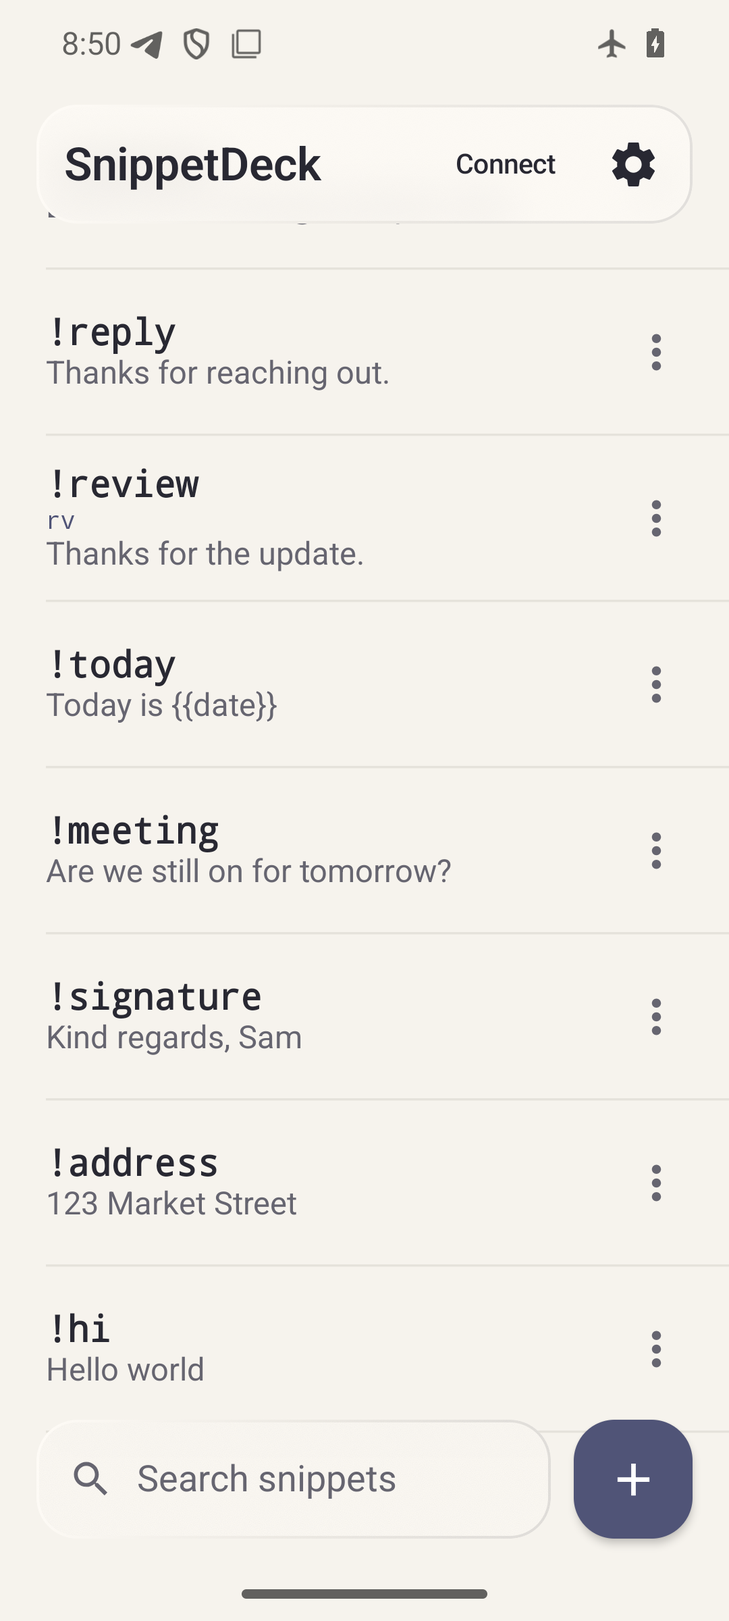
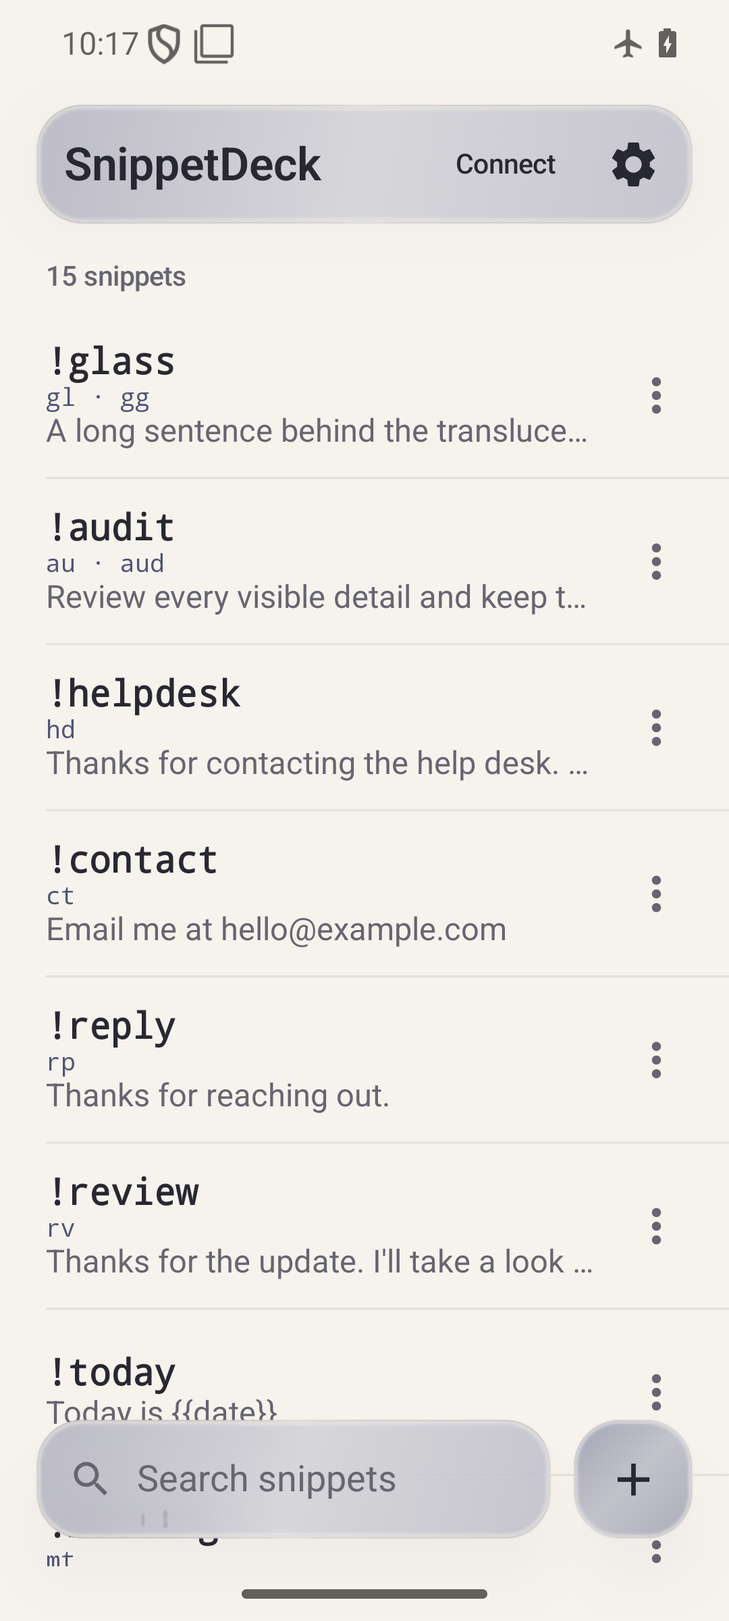
Render refracting glass blocks on Android

diff --git a/app/src/main/java/com/rrajath/expander/ui/screens/SnippetListScreen.kt b/app/src/main/java/com/rrajath/expander/ui/screens/SnippetListScreen.kt
@@ -4,10 +4,12 @@ import android.content.Intent
 import android.os.PowerManager
 import android.provider.Settings
 import androidx.compose.foundation.background
+import androidx.compose.foundation.clickable
 import androidx.compose.foundation.combinedClickable
 import androidx.compose.foundation.layout.*
 import androidx.compose.foundation.lazy.LazyColumn
 import androidx.compose.foundation.lazy.items
+import androidx.compose.foundation.shape.RoundedCornerShape
 import androidx.compose.material.icons.Icons
 import androidx.compose.material.icons.filled.Add
 import androidx.compose.material.icons.filled.MoreVert
@@ -17,6 +19,7 @@ import androidx.compose.runtime.*
 import androidx.compose.ui.Alignment
 import androidx.compose.ui.Modifier
 import androidx.compose.ui.platform.LocalContext
+import androidx.compose.ui.semantics.Role
 import androidx.compose.ui.text.font.FontFamily
 import androidx.compose.ui.text.style.TextOverflow
 import androidx.compose.ui.unit.dp
@@ -26,11 +29,11 @@ import androidx.lifecycle.compose.LocalLifecycleOwner
 import com.rrajath.expander.data.Snippet
 import com.rrajath.expander.service.TextExpansionService
 import com.rrajath.expander.ui.components.SearchBar
-import com.rrajath.expander.ui.components.glassControl
+import com.rrajath.expander.ui.components.GlassBlock
 import com.rrajath.expander.sync.SyncUiState
 import com.rrajath.expander.util.ThemePreferences
-import dev.chrisbanes.haze.HazeState
-import dev.chrisbanes.haze.haze
+import dev.chrisbanes.haze.hazeSource
+import dev.chrisbanes.haze.rememberHazeState
 
 @Composable
 internal fun SnippetListScreen(
@@ -70,12 +73,12 @@ internal fun SnippetListScreen(
     val colors = MaterialTheme.colorScheme
     val reduceTransparency by ThemePreferences.reduceTransparency.collectAsState()
     val opaqueControls = reduceTransparency || highContrast || powerSave
-    val hazeState = remember { HazeState() }
+    val hazeState = rememberHazeState()
 
     Box(modifier = modifier.fillMaxSize().background(colors.background).statusBarsPadding().navigationBarsPadding()) {
         LazyColumn(
             modifier = Modifier.fillMaxSize().padding(top = 8.dp)
-                .then(if (opaqueControls) Modifier else Modifier.haze(state = hazeState)),
+                .then(if (opaqueControls) Modifier else Modifier.hazeSource(state = hazeState)),
             contentPadding = PaddingValues(top = 58.dp, bottom = 94.dp),
         ) {
             if (!accessibilityEnabled || !serviceEnabled) {
@@ -85,12 +88,12 @@ internal fun SnippetListScreen(
                             .padding(start = 18.dp, end = 10.dp, top = 9.dp, bottom = 9.dp),
                         verticalAlignment = Alignment.CenterVertically,
                     ) {
-                        Text(if (accessibilityEnabled) "Text expansion is paused" else "Text expansion is off", modifier = Modifier.weight(1f), style = MaterialTheme.typography.bodyMedium)
+                        Text(if (accessibilityEnabled) "Text expansion is paused" else "Text expansion is off", modifier = Modifier.weight(1f), style = MaterialTheme.typography.bodyMedium, color = colors.onErrorContainer)
                         TextButton(onClick = {
                             if (accessibilityEnabled) onSettingsClick()
                             else context.startActivity(Intent(Settings.ACTION_ACCESSIBILITY_SETTINGS))
                         }) {
-                            Text("Enable")
+                            Text("Enable", color = colors.onErrorContainer)
                         }
                     }
                 }
@@ -124,50 +127,51 @@ internal fun SnippetListScreen(
             }
         }
 
-        Row(
-            modifier = Modifier.fillMaxWidth().padding(horizontal = 16.dp, vertical = 8.dp)
-                .height(52.dp).glassControl(
-                    hazeState,
-                    opaqueControls,
-                    androidx.compose.foundation.shape.RoundedCornerShape(18.dp),
-                    tintAlpha = 0.72f,
-                ).padding(start = 12.dp, end = 2.dp),
-            verticalAlignment = Alignment.CenterVertically,
+        GlassBlock(
+            hazeState = hazeState,
+            opaque = opaqueControls,
+            shape = RoundedCornerShape(20.dp),
+            modifier = Modifier.fillMaxWidth().padding(horizontal = 16.dp, vertical = 8.dp).height(52.dp),
         ) {
-            Text(
-                "SnippetDeck",
-                modifier = Modifier.weight(1f),
-                style = MaterialTheme.typography.titleLarge,
-                color = colors.onBackground,
-                maxLines = 1,
-                overflow = TextOverflow.Ellipsis,
-            )
-            val label = when {
-                syncState is SyncUiState.Conflict -> "Resolve"
-                syncState is SyncUiState.Failed -> "Retry"
-                syncState is SyncUiState.Working -> "Syncing"
-                !syncConnected -> "Connect"
-                syncState is SyncUiState.Synced -> "Synced"
-                else -> "Sync"
-            }
-            TextButton(
-                onClick = { if (syncState is SyncUiState.Conflict) onSettingsClick() else onSyncClick() },
-                enabled = syncState !is SyncUiState.Working,
-                modifier = Modifier.height(48.dp).widthIn(min = 64.dp),
-                contentPadding = PaddingValues(horizontal = 6.dp),
+            Row(
+                modifier = Modifier.fillMaxSize().padding(start = 12.dp, end = 2.dp),
+                verticalAlignment = Alignment.CenterVertically,
             ) {
-                if (syncState is SyncUiState.Working) {
-                    CircularProgressIndicator(modifier = Modifier.size(18.dp), strokeWidth = 2.dp)
-                } else {
-                    Text(
-                        label,
-                        style = MaterialTheme.typography.labelMedium,
-                        color = if (syncState is SyncUiState.Failed || syncState is SyncUiState.Conflict) colors.error else colors.onSurface,
-                    )
+                Text(
+                    "SnippetDeck",
+                    modifier = Modifier.weight(1f),
+                    style = MaterialTheme.typography.titleLarge,
+                    color = colors.onBackground,
+                    maxLines = 1,
+                    overflow = TextOverflow.Ellipsis,
+                )
+                val label = when {
+                    syncState is SyncUiState.Conflict -> "Resolve"
+                    syncState is SyncUiState.Failed -> "Retry"
+                    syncState is SyncUiState.Working -> "Syncing"
+                    !syncConnected -> "Connect"
+                    syncState is SyncUiState.Synced -> "Synced"
+                    else -> "Sync"
                 }
-            }
-            IconButton(onClick = onSettingsClick) {
-                Icon(Icons.Default.Settings, contentDescription = "Settings", tint = colors.onBackground)
+                TextButton(
+                    onClick = { if (syncState is SyncUiState.Conflict) onSettingsClick() else onSyncClick() },
+                    enabled = syncState !is SyncUiState.Working,
+                    modifier = Modifier.height(48.dp).widthIn(min = 64.dp),
+                    contentPadding = PaddingValues(horizontal = 6.dp),
+                ) {
+                    if (syncState is SyncUiState.Working) {
+                        CircularProgressIndicator(modifier = Modifier.size(18.dp), strokeWidth = 2.dp)
+                    } else {
+                        Text(
+                            label,
+                            style = MaterialTheme.typography.labelMedium,
+                            color = if (syncState is SyncUiState.Failed || syncState is SyncUiState.Conflict) colors.error else colors.onSurface,
+                        )
+                    }
+                }
+                IconButton(onClick = onSettingsClick) {
+                    Icon(Icons.Default.Settings, contentDescription = "Settings", tint = colors.onBackground)
+                }
             }
         }
 
@@ -184,15 +188,19 @@ internal fun SnippetListScreen(
                 opaque = opaqueControls,
                 modifier = Modifier.weight(1f),
             )
-            FloatingActionButton(
-                onClick = onAddClick,
-                modifier = Modifier.size(52.dp),
-                containerColor = colors.primary,
-                contentColor = colors.onPrimary,
-                shape = androidx.compose.foundation.shape.RoundedCornerShape(18.dp),
-                elevation = FloatingActionButtonDefaults.elevation(defaultElevation = 2.dp, pressedElevation = 4.dp),
+            GlassBlock(
+                hazeState = hazeState,
+                opaque = opaqueControls,
+                shape = RoundedCornerShape(20.dp),
+                accent = true,
+                modifier = Modifier.size(52.dp).clickable(role = Role.Button, onClick = onAddClick),
             ) {
-                Icon(Icons.Default.Add, contentDescription = "Add snippet")
+                Icon(
+                    Icons.Default.Add,
+                    contentDescription = "Add snippet",
+                    tint = if (opaqueControls) colors.onPrimary else colors.onSurface,
+                    modifier = Modifier.align(Alignment.Center),
+                )
             }
         }
     }

diff --git a/app/src/main/java/com/rrajath/expander/ui/components/SearchBar.kt b/app/src/main/java/com/rrajath/expander/ui/components/SearchBar.kt
@@ -13,50 +13,72 @@ import androidx.compose.material3.*
 import androidx.compose.runtime.*
 import androidx.compose.ui.Alignment
 import androidx.compose.ui.Modifier
-import androidx.compose.ui.draw.clip
+import androidx.compose.ui.draw.shadow
 import androidx.compose.ui.focus.onFocusChanged
 import androidx.compose.ui.graphics.Brush
+import androidx.compose.ui.graphics.Color
 import androidx.compose.ui.graphics.SolidColor
+import androidx.compose.ui.graphics.luminance
 import androidx.compose.ui.semantics.contentDescription
 import androidx.compose.ui.semantics.semantics
 import androidx.compose.ui.text.input.ImeAction
 import androidx.compose.ui.unit.dp
+import dev.chrisbanes.haze.ExperimentalHazeApi
+import dev.chrisbanes.haze.HazeInput
+import dev.chrisbanes.haze.HazeSourceRetention
 import dev.chrisbanes.haze.HazeState
-import dev.chrisbanes.haze.HazeStyle
-import dev.chrisbanes.haze.HazeTint
-import dev.chrisbanes.haze.hazeChild
+import dev.chrisbanes.haze.glass.GlassStyle
+import dev.chrisbanes.haze.glass.SurfaceProfile
+import dev.chrisbanes.haze.glass.hazeGlass
 
+@OptIn(ExperimentalHazeApi::class)
 @Composable
-fun Modifier.glassControl(
+fun GlassBlock(
     hazeState: HazeState,
     opaque: Boolean,
     shape: RoundedCornerShape,
+    modifier: Modifier = Modifier,
     focused: Boolean = false,
-    tintAlpha: Float = 0.4f,
-): Modifier {
+    accent: Boolean = false,
+    content: @Composable BoxScope.() -> Unit,
+) {
     val colors = MaterialTheme.colorScheme
-    val edge = if (focused) SolidColor(colors.primary.copy(alpha = 0.8f)) else Brush.linearGradient(
-        listOf(
-            colors.surface.copy(alpha = 0.9f),
-            colors.outline.copy(alpha = 0.4f),
-            colors.onSurface.copy(alpha = 0.12f),
-        )
-    )
-    val material = if (opaque) {
-        Modifier.background(colors.surface, shape)
-    } else {
-        Modifier.hazeChild(
-            state = hazeState,
-            style = HazeStyle(
-                backgroundColor = colors.background,
-                tint = HazeTint(colors.surface.copy(alpha = tintAlpha)),
-                blurRadius = 16.dp,
-                noiseFactor = 0.04f,
-                fallbackTint = HazeTint(colors.surface.copy(alpha = 0.96f)),
-            ),
-        )
+    val dark = colors.background.luminance() < 0.35f
+    val depth = if (opaque) 0.dp else 14.dp
+    val style = GlassStyle.regular.then {
+        backgroundColor(colors.background)
+        tint(if (dark) colors.background.copy(alpha = if (accent) 0.45f else 0.6f)
+            else colors.primary.copy(alpha = if (accent) 0.34f else 0.22f))
+        shape(shape)
+        surfaceProfile(SurfaceProfile.Lip)
+        specularIntensity(if (focused) 1f else 0.9f)
+        ambientResponse(0.7f)
+        edgeShadow(Color.Black.copy(alpha = 0.28f))
+        chromaticAberrationStrength(0.08f)
     }
-    return this.clip(shape).then(material).border(1.dp, edge, shape)
+
+    Box(modifier = modifier.shadow(depth, shape, ambientColor = colors.primary.copy(alpha = 0.22f), spotColor = colors.onSurface.copy(alpha = 0.18f))) {
+        val backdrop = if (opaque) {
+            Modifier.background(if (accent) colors.primary else colors.surface, shape)
+                .border(1.dp, colors.outlineVariant, shape)
+        } else {
+            Modifier.hazeGlass(
+                input = HazeInput.Sources(hazeState, retention = HazeSourceRetention.ClearWhenUnavailable),
+                style = style,
+            )
+        }
+        Box(Modifier.matchParentSize().then(backdrop))
+        if (!opaque) {
+            val glaze = Brush.linearGradient(
+                0f to colors.primary.copy(alpha = if (accent) 0.26f else if (dark) 0.09f else 0.19f),
+                0.5f to colors.surface.copy(alpha = 0.02f),
+                1f to colors.primary.copy(alpha = if (accent) 0.20f else if (dark) 0.06f else 0.12f),
+            )
+            val rim = if (focused) colors.primary.copy(alpha = 0.8f) else colors.outline.copy(alpha = 0.55f)
+            Box(Modifier.matchParentSize().background(glaze, shape).border(1.5.dp, rim, shape))
+        }
+        content()
+    }
 }
 
 @Composable
@@ -69,9 +91,13 @@ fun SearchBar(
 ) {
     val colors = MaterialTheme.colorScheme
     var focused by remember { mutableStateOf(false) }
-    val shape = RoundedCornerShape(18.dp)
-    Box(
-        modifier = modifier.height(52.dp).glassControl(hazeState, opaque, shape, focused),
+    val shape = RoundedCornerShape(20.dp)
+    GlassBlock(
+        hazeState = hazeState,
+        opaque = opaque,
+        shape = shape,
+        focused = focused,
+        modifier = modifier.height(52.dp),
     ) {
         Row(
             modifier = Modifier.fillMaxSize()

diff --git a/docs/ru/ARCHITECTURE.md b/docs/ru/ARCHITECTURE.md
@@ -33,7 +33,7 @@ Desktop: редактор Tauri → Rust-библиотека → локальн
 
 ## Интерфейсы
 
-Android Compose отвечает за редактирование, поиск, включение сниппетов, настройку специальных возможностей, темы, копии, Drive и ручную проверку обновлений. Импорт заранее показывает число записей и предупреждает о замене библиотеки. Темы Chalk, Ink и Parchment имеют фиксированные схемы Material 3 без цвета обоев. Сохранённые значения `white`, `black`, `sepia` и переход со старых Light/Dark/System остаются совместимыми. Список идёт под компактной верхней панелью и нижним поиском. Haze захватывает только содержимое списка для стеклянных элементов управления; при уменьшенной прозрачности, повышенном контрасте или экономии энергии захват выключается и поверхности становятся сплошными. Формы непрозрачны, плейсхолдеры раскрываются по запросу.
+Android Compose отвечает за редактирование, поиск, включение сниппетов, настройку специальных возможностей, темы, копии, Drive и ручную проверку обновлений. Импорт заранее показывает число записей и предупреждает о замене библиотеки. Темы Chalk, Ink и Parchment имеют фиксированные схемы Material 3 без цвета обоев. Сохранённые значения `white`, `black`, `sepia` и переход со старых Light/Dark/System остаются совместимыми. Список идёт под компактной верхней панелью и нижним поиском. Haze 2 захватывает список один раз для трёх стеклянных блоков, отрисовывает глубину, преломление у краёв и блики под чёткими элементами управления. Фоновый цвет материала скрывает исходные резкие пиксели. При уменьшенной прозрачности, повышенном контрасте или экономии энергии захват выключается и блоки становятся сплошными. Формы непрозрачны, плейсхолдеры раскрываются по запросу.
 
 На компьютере статический WebView показывает список и редактор рядом в широком окне и полный экран редактора в узком. Поиск и меню находятся на полупрозрачном уровне управления; при ограниченной прозрачности они становятся непрозрачными. Rust отвечает за хранение, проверку данных, файловые диалоги и подстановку; интерфейс не читает файлы и не обращается в сеть напрямую. На экране одновременно создаётся не более 80 строк библиотеки, пока пользователь не запросит остальные.
 

diff --git a/docs/ARCHITECTURE.md b/docs/ARCHITECTURE.md
@@ -66,7 +66,7 @@ Libraries allow up to 10,000 snippets and 2 MB of backup JSON. Saves serialize t
 
 The Compose interface provides snippet editing, search, enabled state, accessibility onboarding, theme selection, backup and transfer, Google Drive connection, and manual update checks. Import always previews the source and snippet count and warns that the current library will be replaced.
 
-Chalk, Ink, and Parchment use deterministic Material 3 schemes. Their stored values remain `white`, `black`, and `sepia` so existing preferences still load; legacy Light/Dark/System values migrate to the nearest option. Dynamic wallpaper colors are disabled to keep contrast predictable. The continuous snippet list runs beneath a compact toolbar and bottom search. Haze captures only that list for the glass controls; the capture is skipped for solid controls when reduced transparency, high contrast, or power saving is active. Forms remain opaque and placeholders open on demand.
+Chalk, Ink, and Parchment use deterministic Material 3 schemes. Their stored values remain `white`, `black`, and `sepia` so existing preferences still load; legacy Light/Dark/System values migrate to the nearest option. Dynamic wallpaper colors are disabled to keep contrast predictable. The continuous snippet list runs beneath a compact toolbar and bottom search. Haze 2 captures the list once for three glass blocks and renders depth blur, edge refraction, and specular lighting behind sharp controls. A background color in each material obscures the original unblurred pixels. Capture is skipped in favor of solid controls when reduced transparency, high contrast, or power saving is active. Forms remain opaque and placeholders open on demand.
 
 UI state is owned by view models and repositories rather than composables. Platform actions such as document selection and clipboard access remain at the UI boundary.
 

diff --git a/docs/ru/GUIDE.md b/docs/ru/GUIDE.md
@@ -38,7 +38,7 @@ Android: **Settings → Backup & transfer** экспортирует JSON-фай
 
 Рабочая библиотека остаётся в данных приложения на каждом устройстве. Храните копии в надёжном месте: в них может быть личный текст. Старые форматы raw-array JSON, JSON v1.0 и текст V1 продолжают читаться.
 
-На Android верхняя панель и нижний поиск размывают сниппеты под ними. Для сплошных поверхностей включите **Settings → Appearance → Reduce transparency**. Они также используются при повышенном контрасте и экономии энергии.
+На Android верхняя панель, поиск и кнопка добавления — стеклянные блоки. Проходящий под ними текст рассеивается и преломляется у кромки. Для сплошных поверхностей включите **Settings → Appearance → Reduce transparency**. Они также используются при повышенном контрасте и экономии энергии.
 
 ## Синхронизация через Google Drive (необязательно)
 

diff --git a/docs/ru/CONTRIBUTING.md b/docs/ru/CONTRIBUTING.md
@@ -6,7 +6,7 @@
 
 ## Android
 
-Установите JDK 17 и Android SDK 36. Укажите путь к SDK в игнорируемом `local.properties` (пример — `local.properties.example`) или откройте проект в Android Studio. Для ручной проверки нужен Android 13+ или эмулятор.
+Установите JDK 17 и Android SDK Platform 37.0 (`sdkmanager --channel=3 'platforms;android-37.0'`). Целевая версия приложения остаётся Android 36. Укажите путь к SDK в игнорируемом `local.properties` (пример — `local.properties.example`) или откройте проект в Android Studio. Для ручной проверки нужен Android 13+ или эмулятор.
 
 ```bash
 ./gradlew testDebugUnitTest lintDebug assembleDebug --no-daemon --max-workers=2

diff --git a/docs/GUIDE.md b/docs/GUIDE.md
@@ -38,7 +38,7 @@ Android: **Settings → Backup & transfer** exports a JSON file or compact text,
 
 The working library stays in each device's app data. Keep backup files somewhere you control; they can contain sensitive text. Old raw-array JSON, v1.0 JSON, and text V1 backups remain readable.
 
-On Android the floating toolbar and search blur snippets beneath them. Turn on **Settings → Appearance → Reduce transparency** for solid controls. The app also uses solid controls when high contrast or power saving is active.
+On Android the floating toolbar, search, and add button are glass blocks. Text passing beneath them is diffused and refracted at their edges. Turn on **Settings → Appearance → Reduce transparency** for solid controls. The app also uses solid controls when high contrast or power saving is active.
 
 ## Sync with Google Drive (optional)
 

diff --git a/CONTRIBUTING.md b/CONTRIBUTING.md
@@ -6,7 +6,7 @@ The repository has two applications with a shared user-facing backup and sync fo
 
 ## Android
 
-Install JDK 17 and Android SDK 36. Set your SDK path in an ignored `local.properties` (see `local.properties.example`) or open the project in Android Studio. An Android 13+ device or emulator is needed for interactive testing.
+Install JDK 17 and Android SDK Platform 37.0 (`sdkmanager --channel=3 'platforms;android-37.0'`). The app still targets Android 36. Set your SDK path in an ignored `local.properties` (see `local.properties.example`) or open the project in Android Studio. An Android 13+ device or emulator is needed for interactive testing.
 
 ```bash
 ./gradlew testDebugUnitTest lintDebug assembleDebug --no-daemon --max-workers=2

diff --git a/docs/OPERATIONS.md b/docs/OPERATIONS.md
@@ -12,7 +12,7 @@ The Android and desktop source toolchains and local test commands are in [Contri
 
 ## Release from `main`
 
-Release through `.github/workflows/release.yml` with a semantic tag such as `v1.8.3`. It must contain the official signed APK and all four installers. Both apps resolve GitHub `releases/latest`, so a desktop-only latest release would break Android's updater.
+Release through `.github/workflows/release.yml` with a semantic tag such as `v1.8.4`. It must contain the official signed APK and all four installers. Both apps resolve GitHub `releases/latest`, so a desktop-only latest release would break Android's updater.
 
 Before dispatching the workflow:
 
